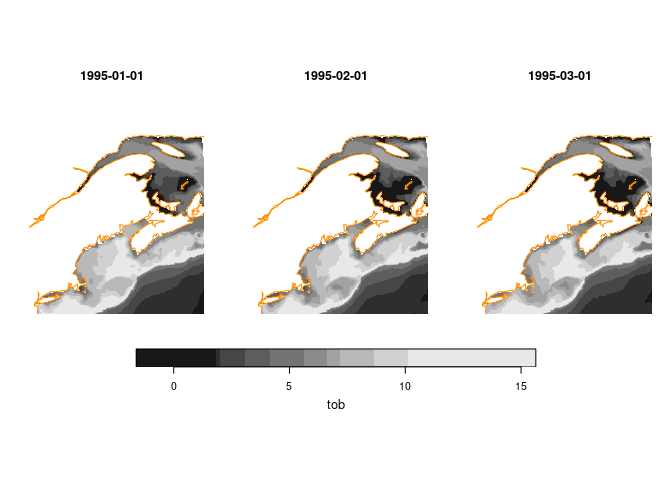
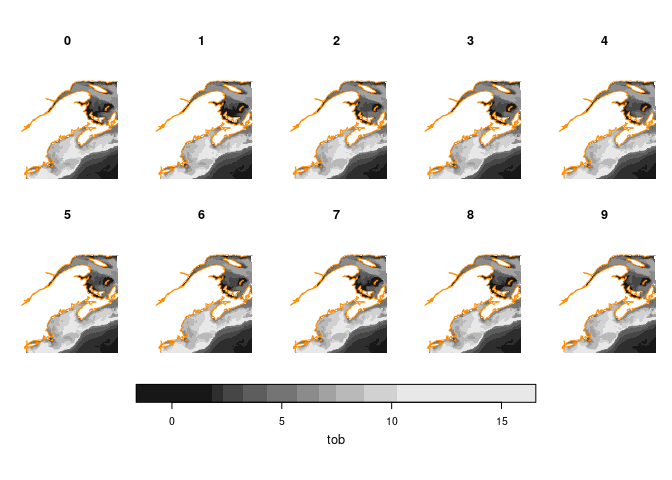
cefi_var() now will return all ensemble layers.  Update README

diff --git a/README.md b/README.md
@@ -55,7 +55,7 @@ hist = read_catalog(uri) |>
     ## Columns: 6
     ## $ Variable_Name    <chr> "tos", "ssu_rotate", "ssu", "ssh", "sos", "sob", "tob…
     ## $ Output_Frequency <chr> "daily", "daily", "daily", "daily", "daily", "daily",…
-    ## $ Long_Name        <chr> "Sea Surface Temperature", "Sea Surface Zonal Velocit…
+    ## $ Long_Name        <chr> "Sea Surface Temperature", "Rotated Sea Surface Zonal…
     ## $ Unit             <chr> "degC", "m s-1", "m s-1", "m", "psu", "psu", "degC", …
     ## $ File_Name        <chr> "ocean_daily.19930101-20191231.tos.nc", "ocean_daily.…
     ## $ OPeNDAP_URL      <chr> "http://psl.noaa.gov/thredds/dodsC/Projects/CEFI/regi…
@@ -183,8 +183,8 @@ s
     ## btm_o2  0.0003805129 125804
     ## dimension(s):
     ##      from  to     offset  delta refsys point                      values x/y
-    ## X1      1 187         NA     NA WGS 84 FALSE [187x264] -75.46,...,-60.08 [x]
-    ## X2      1 264         NA     NA WGS 84 FALSE    [187x264] 40.04,...,52.3 [y]
+    ## x       1 187         NA     NA WGS 84 FALSE [187x264] -75.46,...,-60.08 [x]
+    ## y       1 264         NA     NA WGS 84 FALSE    [187x264] 40.04,...,52.3 [y]
     ## time    1   4 1995-12-17 1 days   Date    NA                        NULL    
     ## curvilinear grid
 
@@ -271,13 +271,51 @@ nc = cefi_filter(nc,
 
 Unlike the historical runs, the forecast results include one or more
 ensemble member results for each time period. These are identified as
-`member` which you might think of as replicates. Requesting all members
-for a given time is certainly possible, but probably a more common use
-case is to extract a summary (mean or median) or a measure of
-variability (standard deviation or variance).
+`member` which you might think of as replicates.
+
+Here we show retrieving all of the members.
 
 ``` r
-s = cefi_var(nc)
+s = cefi_var(nc, collapse_fun = NULL)
+s
+```
+
+    ## stars object with 4 dimensions and 2 attributes
+    ## attribute(s), summary of first 1e+05 cells:
+    ##                Min.    1st Qu.    Median      Mean  3rd Qu.      Max.  NA's
+    ## tob       -1.553790 2.61702126 5.6047626 5.6676885 8.061857 16.177769 62990
+    ## tob_anom  -5.920943 0.09124082 0.8942709 0.9081095 1.519054  4.310905 62990
+    ## dimension(s):
+    ##        from  to offset delta refsys point                             values
+    ## x         1 187     NA    NA WGS 84 FALSE        [187x264] -75.46,...,-60.08
+    ## y         1 264     NA    NA WGS 84 FALSE           [187x264] 40.04,...,52.3
+    ## member    1  10      0     1     NA FALSE                               NULL
+    ## time      1   3     NA    NA   Date    NA 1995-01-01, 1995-02-01, 1995-03-01
+    ##        x/y
+    ## x      [x]
+    ## y      [y]
+    ## member    
+    ## time      
+    ## curvilinear grid
+
+To see the ensemble results for one date, we can slice-and-dice using
+indexing.In this case, there are two variables, `tob` (temperature of
+bottom) and `tob_anom` temperature of bottom anomaly. Below we show only
+`tob`.
+
+``` r
+times = st_get_dimension_values(s, "time")
+plot(s['tob'][,,,,1], hook = plot_coast)
+```
+
+![](README_files/figure-gfm/unnamed-chunk-13-1.png)<!-- -->
+
+Requesting all members for a given time is possible as shown above, but
+a more common use case is to extract a summary (mean or median) or a
+measure of variability (standard deviation or variance).
+
+``` r
+s = cefi_var(nc, collapse_fun = mean)
 s
 ```
 
@@ -288,16 +326,33 @@ s
     ## tob_anom  -5.943011 0.1601234 1.041166 1.000913 1.577987  4.219558 94353
     ## dimension(s):
     ##      from  to refsys point                             values x/y
-    ## X1      1 187 WGS 84 FALSE        [187x264] -75.46,...,-60.08 [x]
-    ## X2      1 264 WGS 84 FALSE           [187x264] 40.04,...,52.3 [y]
+    ## x       1 187 WGS 84 FALSE        [187x264] -75.46,...,-60.08 [x]
+    ## y       1 264 WGS 84 FALSE           [187x264] 40.04,...,52.3 [y]
     ## time    1   3   Date    NA 1995-01-01, 1995-02-01, 1995-03-01    
     ## curvilinear grid
 
-In this case, there are two variables, `tob` (temperature of bottom) and
-`tob_anom` temperature of bottom anomaly.
+Note that the dimensionality is reduced because we computed the mean of
+the ensembles at each time.
 
 ``` r
-plot(s['tob'], hook = plot_coast)
+plot(s['tob'], hook = plot_coast, main = "Mean Temp of Bottom")
 ```
 
-![](README_files/figure-gfm/unnamed-chunk-13-1.png)<!-- -->
+![](README_files/figure-gfm/collaped_mean_plot-1.png)<!-- -->
+
+### Granularity
+
+Here we highlight the granularity of the data source by zooming in on
+the New England coastline. You can see that large embayments such as
+Penobscot and Narragansett bays are not included.
+
+``` r
+plot(dplyr::slice(s['tob'], "time",  1),
+     xlim = c(-72 , -63),
+     ylim = c(39, 45),
+     reset = FALSE,
+     axes = TRUE)
+plot(coast, add = TRUE, col = "orange")
+```
+
+![](README_files/figure-gfm/granularity-1.png)<!-- -->
